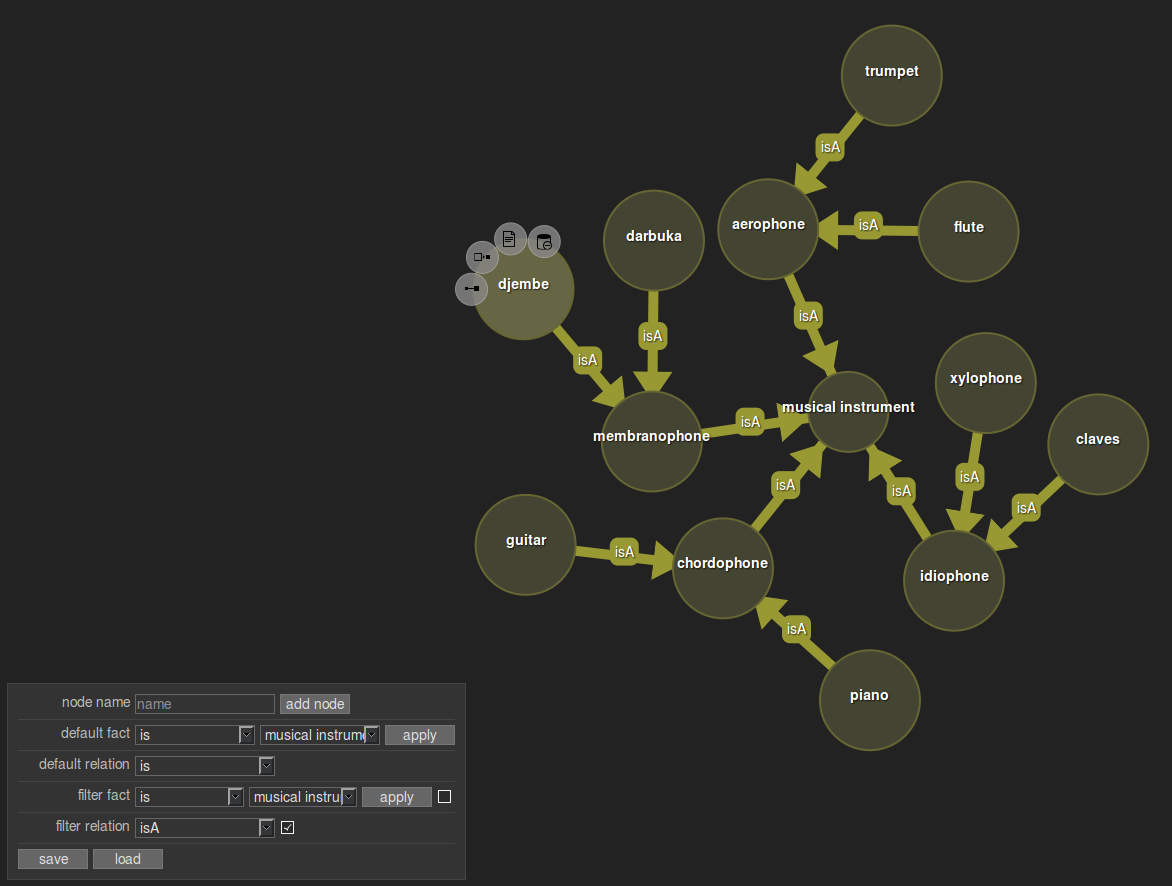
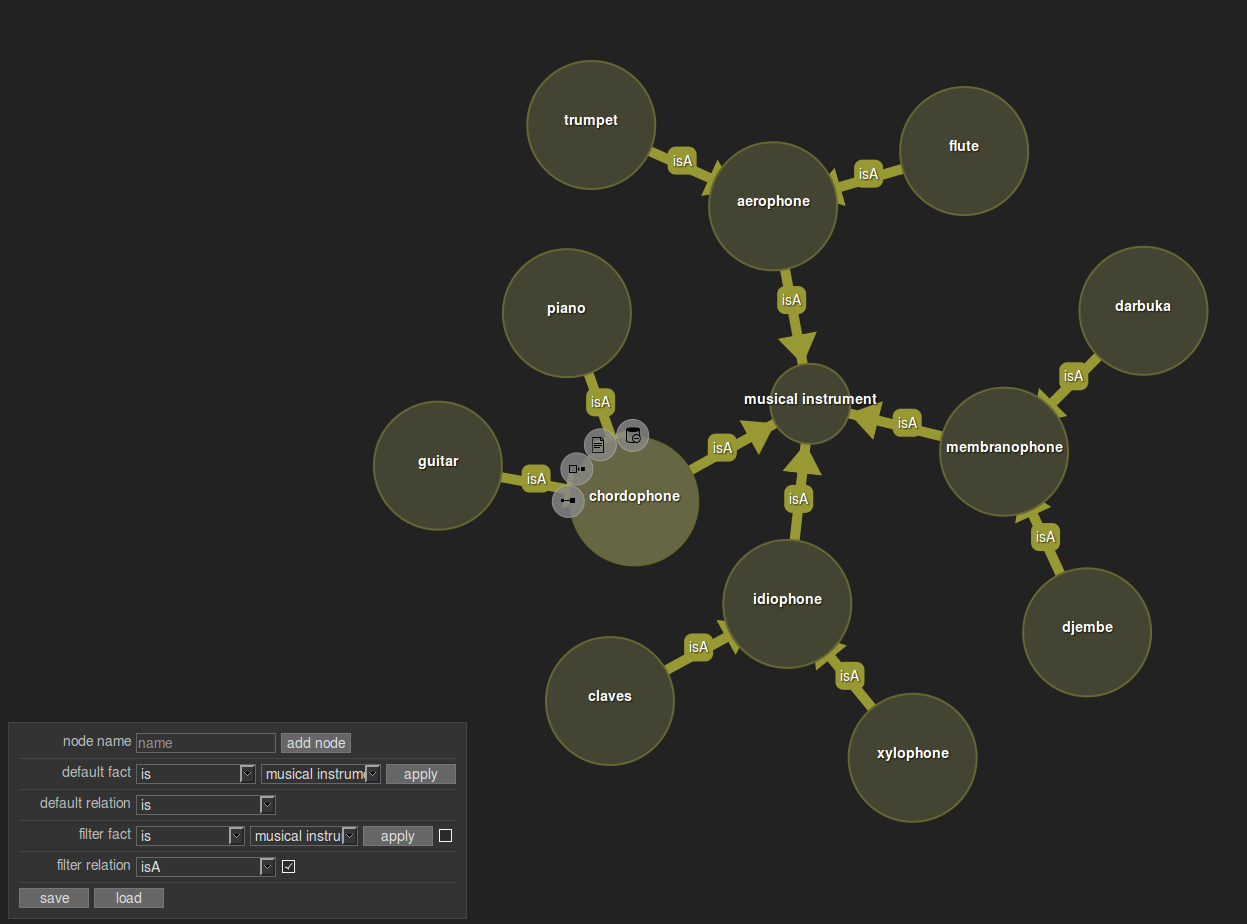
Mostly add jsdoc comments, add a screenshot

Changed region(s): [[0.2765, 0.0305, 0.9829, 0.9142], [0.0307, 0.7619, 0.3993, 1.0]]

diff --git a/src/js/semexp.js b/src/js/semexp.js
@@ -1,24 +1,31 @@
-/*
-Semantic explorer
-an experiment in navigating semantic networks
-
-* display a semantic network in a graph (force-directed layout)
-* allow arbitrary filters on the data - select from a menu
-* filter nodes and then links?
-* add tools for manipulating the data, e.g.:
-	* add node - enter node details, name at a minimum
-	* add link - perhaps choose from a dropdown with limited options, e.g. relations that have already been defined in the model
-	* modify node
-* extend the database class:
-	* be able to add more data on a node (might be possible already?), e.g. an object or map
-	* implement loading and saving directly inside the semnet class; push changes upstream
-
-*/
-
 (function(semexp) {
 	'use strict';
 	
+	/**
+	 * @lends semexp
+	 */
 	semexp = {
+		/**
+		 * Semantic explorer
+		 * an experiment in navigating semantic networks
+		 * <ul>
+		 * <li>display a semantic network in a graph (force-directed layout)</li>
+		 * <li>allow arbitrary filters on the data - select from a menu or cli</li>
+		 * <li>tools for manipulating the data, e.g.:</li>
+		 * <ul>
+		 * 	<li>add node - enter node details, name at a minimum</li>
+		 * 	<li>add link - perhaps choose from a dropdown with limited options, e.g. relations that have already been defined in the model</li>
+		 * 	<li>modify node - metadata, relations</li>
+		 * </ul>
+		 * </ul>
+		 * @todo
+		 * <ul>
+		 * <li>extend the database class:</li>
+		 * <li>be able to add more data on a node (might be possible already?), e.g. an object or map</li>
+		 * <li>implement loading and saving directly inside the semnet class; push changes to a remote (regardless if it's a server or another client)</li>
+		 * </ul>
+		 * @constructs
+		 */
 		init : function(config)
 		{
 			this.graph = Object.create(semexp.graph, {
@@ -42,6 +49,10 @@ an experiment in navigating semantic networks
 				.attr('height', body.property('clientHeight'));
 		},
 
+		/**
+		 * Add a node to the network and refresh
+		 * @param {String} nodeName
+		 */
 		addNode : function(nodeName)
 		{
 			this.model.add(nodeName);
@@ -54,12 +65,23 @@ an experiment in navigating semantic networks
 			this.refresh();
 		},
 
+		/**
+		 * Add a relation type
+		 * @param {String} relNamee
+		 * @param {Object} options Additional options
+		 */
 		addRelation : function(relName, options)
 		{
 			this.model.add(relName, options);
 			this.refresh();
 		},
 
+		/**
+		 * Add a relation instance between two nodes (triplet)
+		 * @param {String} from Source node id
+		 * @param {String} link Relation id
+		 * @param {String} to Target node id
+		 */
 		addLink : function(from, link, to)
 		{
 			if (from == to) {
@@ -72,11 +94,18 @@ an experiment in navigating semantic networks
 			this.refresh();
 		},
 
+		/**
+		 * Remove a node
+		 * @fixme: unimplemented
+		 */
 		removeNode : function(nodeName)
 		{
-			console.log(nodeName);
+			throw new Exception("unimplemented");
 		},
 
+		/**
+		 * Refresh the explorer - each of its subcomponents
+		 */
 		refresh : function()
 		{
 			// this hooks the tick handler; perhaps move elsewhere
@@ -85,10 +114,12 @@ an experiment in navigating semantic networks
 			this.tools.refresh();
 		},
 
+		/**
+		 * Draw the explorer
+		 */
 		draw : function()
 		{
 			// clean svg
-			// this.svg.selectAll('*').remove();
 			this.menu.draw();
 			this.graph.draw(
 				this.model.generateGraph(),
@@ -98,20 +129,32 @@ an experiment in navigating semantic networks
 			this.tools.draw(this.svg);
 		},
 
+		/**
+		 * Save the data of the current graph
+		 */
 		save : function()
 		{
 			console.log(this.model.export());
 		},
 
+		/**
+		 * Load data and draw its graph
+		 * @param {Object} data
+		 */
 		load : function(data)
 		{
 			this.model.loadData(data);
 			this.draw();
 		},
 
+		/**
+		 * Clear the explorer.
+		 * Clean up subcomponents
+		 */
 		clear : function()
 		{
 			this.graph.clear();
+			this.svg.selectAll('*').remove();
 		}
 	};
 

diff --git a/src/js/semexpgraph.js b/src/js/semexpgraph.js
@@ -1,16 +1,21 @@
 (function (semexp) {
 	'use strict';
+
+	/**
+	 * @class semexp.graph
+	 * Draw a force-directed graph of a structure passed to draw
+	 */
 	semexp.graph = {
 
-		radiusBase : 40,
-		radiusMultiplier : 15,
+		radiusBase : 35,
+		radiusMultiplier : 8,
 
 		layoutProps : {
 			linkStrength : 0.6,
 			distance : 200,
 			friction : 0.9,
 			charge : -300,
-			gravity : 0.02,
+			gravity : 0.03,
 			theta : 0.9,
 			alpha : 0.7
 		},
@@ -28,10 +33,11 @@
 
 		/**
 		 * Draw the graph nodes
+		 * @todo resize text based on the circle radius so it fits
 		 * @param {Array} nodes The node data for all nodes
 		 * @param {SVGGroup} layer The layer to append the node to
 		 * @param {Function} dragFunc 
-		 * @return {d3.selection} update selection
+		 * @return {d3.selection} {@link |update selection}
 		 */
 		drawNodes : function(nodes, layer, dragFunc)
 		{

diff --git a/src/js/semexptools.js b/src/js/semexptools.js
@@ -2,7 +2,6 @@
 	'use strict';
 
 	/**
-	 * @var {Object} defaultData
 	 * Default datum for the tools
 	 */
 	var defaultData = {
@@ -12,7 +11,6 @@
 	};
 
 	/**
-	 * @var {Object} iconMapping
 	 * mapping from icon name to image filename
 	 */
 	var iconMapping = {
@@ -23,15 +21,14 @@
 	};
 
 	/**
-	 * @var {String}
 	 * path to the icons
 	 */
 	var iconPath = '../bower_components/Icons/picol_latest_prerelease_svg/';
 
 	/**
-	 * @function
 	 * @param {String} key Icon name
 	 * @return {String}
+	 * @function
 	 */
 	function getIcon (key)
 	{
@@ -39,11 +36,11 @@
 	}
 
 	/**
-	 * @class
-	 * graph tools
-	 * these appear on nodes as circles with icons
-	 * that can be interaacted with
-	 *
+	 * @class semexp.tools
+	 * graph tools.
+	 * These appear on nodes as circles with icons
+	 * that can be interacted with
+	 * 
 	 */
 	semexp.tools = {
 

diff --git a/src/index.html b/src/index.html
@@ -8,7 +8,7 @@
 	<script src="../bower_components/d3/d3.min.js"></script>
 	<!-- /build -->
 
-	<!-- build:js:js/semexp.min.js -->
+	<!-- build:js:build js/semexp.min.js -->
 	<script src="js/semexp.js"></script>
 	<script src="js/semexpgraph.js"></script>
 	<script src="js/semexpmodel.js"></script>

diff --git a/src/js/semexpmodel.js b/src/js/semexpmodel.js
@@ -3,6 +3,8 @@
 
 	/**
 	 * @class semexp.model
+	 * Uses an internal semnet and provides an interface to it.
+	 * Also able to export the semantic network to an object
 	 */
 	semexp.model = {
 		/**

diff --git a/src/js/semexpmenu.js b/src/js/semexpmenu.js
@@ -19,6 +19,7 @@
 
 	/**
 	 * @class semexp.menu
+	 * Web form used to interact with the semantic network
 	 */
 	semexp.menu = {
 		/**
